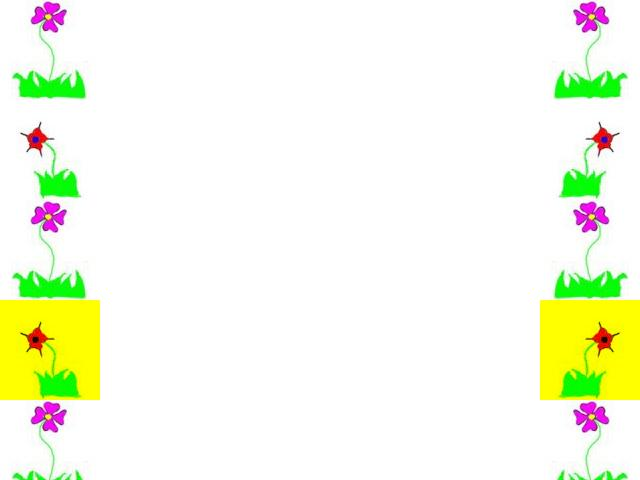
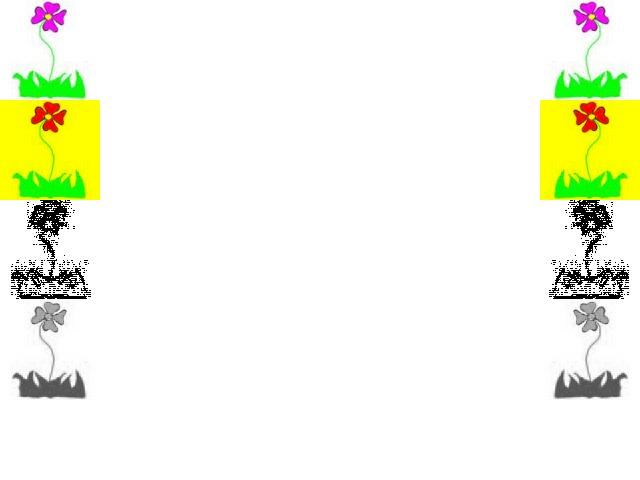
a8 excercises

Changed region(s): [[0.8438, 0.1875, 1.0, 1.0], [0.0, 0.1875, 0.1562, 1.0]]

diff --git a/pixLab/classes/PictureTester.java b/pixLab/classes/PictureTester.java
@@ -43,6 +43,12 @@ public class PictureTester
 	canvas.explore();
     }
   
+    public static void testMyCollage() { 
+	Picture canvas = new Picture("640x480.jpg");
+	canvas.myCollage();
+	canvas.explore();
+    }
+
     /** Method to test edgeDetection */
     public static void testEdgeDetection()
     {
@@ -125,7 +131,8 @@ public class PictureTester
 	//testMirrorArms();
 	//testMirrorGull();
 	//testMirrorDiagonal();
-        testCollage();
+        //testCollage();
+	testMyCollage();
 	//testCopy();
 	//testEdgeDetection();
 	//testEdgeDetection2();
@@ -135,6 +142,6 @@ public class PictureTester
 	//testSetRedToHalfValueInTopHalf();
 	//testClearBlueOverValue(200);
 	//testGetAverageForColumn(0);
-	testFixUnderwater();
+	//testFixUnderwater();
     }
 }

diff --git a/pixLab/classes/Picture.java b/pixLab/classes/Picture.java
@@ -257,7 +257,22 @@ public class Picture extends SimplePicture
     this.mirrorVertical();
     this.write("collage.jpg");
   }
-  
+
+    public void myCollage() { 
+	Picture flower = new Picture("flower1.jpg"); 
+	this.copy(flower,0,0);
+	Picture flower2 = new Picture(flower); 
+	flower2.zeroBlue(); 
+	this.copy(flower2,100,0);
+	Picture flower3 = new Picture(flower);
+	flower3.edgeDetection2(10); 
+	this.copy(flower3,200,0); 
+	Picture flower4 = new Picture(flower); 
+	flower4.greyscale(); 
+	this.copy(flower4,300,0); 
+	this.mirrorVertical();
+	this.write("collage.jpg");
+    }
   
   /** Method to show large changes in color 
     * @param edgeDist the distance for finding edges
